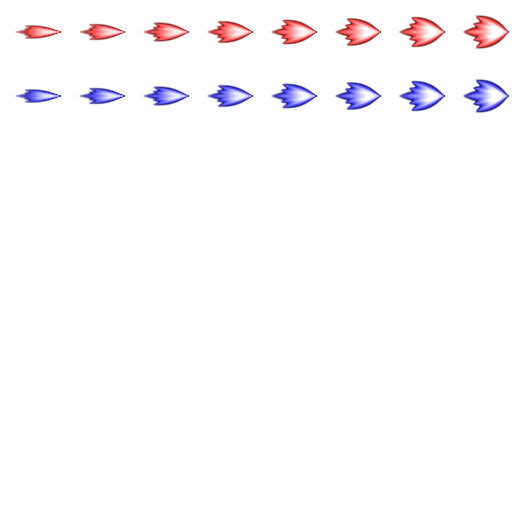
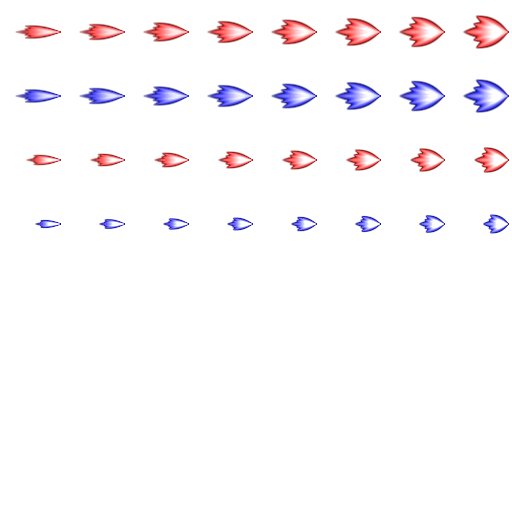
もっと、もっとだ

diff --git a/tools/test.bundle.js b/tools/test.bundle.js
@@ -55601,8 +55601,15 @@ tm.google = tm.google || {};
                 ubright.needsUpdate = true;
             }
 
-            this.activeBullets.forEach(function(bullet) {
+            var uvArray = uv.array;
+            var upositionArray = uposition.array;
+            var urotationArray = urotation.array;
+            var ubrightArray = ubright.array;
+
+            for (var i = 0, len = this.activeBullets.length; i < len; i++) {
+                var bullet = this.activeBullets[i];
                 var index = bullet.index;
+                var index4 = index * 4;
 
                 var u = bullet.frame;
                 var v = bullet.type;
@@ -55611,34 +55618,34 @@ tm.google = tm.google || {};
                 var vmin = v * 1 / 8;
                 var vmax = (v + 1) * 1 / 8;
 
-                uv.array[(index * 4 + 0) * 2 + 0] = umin;
-                uv.array[(index * 4 + 0) * 2 + 1] = 1 - vmin;
-                uv.array[(index * 4 + 1) * 2 + 0] = umax;
-                uv.array[(index * 4 + 1) * 2 + 1] = 1 - vmin;
-                uv.array[(index * 4 + 2) * 2 + 0] = umax;
-                uv.array[(index * 4 + 2) * 2 + 1] = 1 - vmax;
-                uv.array[(index * 4 + 3) * 2 + 0] = umin;
-                uv.array[(index * 4 + 3) * 2 + 1] = 1 - vmax;
+                uvArray[(index4 + 0) * 2 + 0] = umin;
+                uvArray[(index4 + 0) * 2 + 1] = 1 - vmin;
+                uvArray[(index4 + 1) * 2 + 0] = umax;
+                uvArray[(index4 + 1) * 2 + 1] = 1 - vmin;
+                uvArray[(index4 + 2) * 2 + 0] = umax;
+                uvArray[(index4 + 2) * 2 + 1] = 1 - vmax;
+                uvArray[(index4 + 3) * 2 + 0] = umin;
+                uvArray[(index4 + 3) * 2 + 1] = 1 - vmax;
 
-                uposition.array[(index * 4 + 0) * 3 + 0] =
-                    uposition.array[(index * 4 + 1) * 3 + 0] =
-                    uposition.array[(index * 4 + 2) * 3 + 0] =
-                    uposition.array[(index * 4 + 3) * 3 + 0] = bullet.x;
-                uposition.array[(index * 4 + 0) * 3 + 1] =
-                    uposition.array[(index * 4 + 1) * 3 + 1] =
-                    uposition.array[(index * 4 + 2) * 3 + 1] =
-                    uposition.array[(index * 4 + 3) * 3 + 1] = bullet.y;
+                upositionArray[(index4 + 0) * 3 + 0] =
+                    upositionArray[(index4 + 1) * 3 + 0] =
+                    upositionArray[(index4 + 2) * 3 + 0] =
+                    upositionArray[(index4 + 3) * 3 + 0] = bullet.x;
+                upositionArray[(index4 + 0) * 3 + 1] =
+                    upositionArray[(index4 + 1) * 3 + 1] =
+                    upositionArray[(index4 + 2) * 3 + 1] =
+                    upositionArray[(index4 + 3) * 3 + 1] = bullet.y;
 
-                urotation.array[index * 4 + 0] =
-                    urotation.array[index * 4 + 1] =
-                    urotation.array[index * 4 + 2] =
-                    urotation.array[index * 4 + 3] = bullet.rotation;
+                urotationArray[index4 + 0] =
+                    urotationArray[index4 + 1] =
+                    urotationArray[index4 + 2] =
+                    urotationArray[index4 + 3] = bullet.rotation;
 
-                ubright.array[index * 4 + 0] =
-                    ubright.array[index * 4 + 1] =
-                    ubright.array[index * 4 + 2] =
-                    ubright.array[index * 4 + 3] = bullet.bright;
-            });
+                ubrightArray[index4 + 0] =
+                    ubrightArray[index4 + 1] =
+                    ubrightArray[index4 + 2] =
+                    ubrightArray[index4 + 3] = bullet.bright;
+            };
         },
 
         get: function() {
@@ -55695,17 +55702,10 @@ tm.google = tm.google || {};
                     indices.push([i * 4 + 0, i * 4 + 1, i * 4 + 2]);
                     indices.push([i * 4 + 0, i * 4 + 2, i * 4 + 3]);
 
-                    var u = 3;
-                    var v = 0;
-                    var umin = u * 1 / 8;
-                    var umax = (u + 1) * 1 / 8;
-                    var vmin = v * 1 / 8;
-                    var vmax = (v + 1) * 1 / 8;
-
-                    uvs.push([umin, 1 - vmin]);
-                    uvs.push([umax, 1 - vmin]);
-                    uvs.push([umax, 1 - vmax]);
-                    uvs.push([umin, 1 - vmax]);
+                    uvs.push([0, 0]);
+                    uvs.push([1, 0]);
+                    uvs.push([1, 1]);
+                    uvs.push([0, 1]);
 
                     upos.push([0, 0, 0]);
                     upos.push([0, 0, 0]);
@@ -55796,7 +55796,7 @@ tm.google = tm.google || {};
 
         "void main() {",
 
-        "    float idx = floor(position.y / 1.1) * 80.0 + floor(position.x / 1.1);",
+        "    float idx = floor(position.y / 1.1) * " + countSq + ".0 + floor(position.x / 1.1);",
         "    vec3 leftBottom = vec3(floor(position.x / 1.1) * 1.1, floor(position.y / 1.1) * 1.1, 0.0);",
         "    vec3 mid = leftBottom + vec3(0.5, 0.5, 0.0);",
         "    vec3 pos = position - mid;",
@@ -56652,22 +56652,22 @@ tm.define("MainScene", {
         this.superInit();
         
         this.bullets = Bullets().addChildTo(this);
-        this.camera.z += 15;
+        this.camera.z += 7;
     },
 
     update: function(app) {
-        (1).times(function() {
-            var v = tm.geom.Vector2().setRandom().mul(0.1);
+        (512).times(function() {
+            var v = tm.geom.Vector2().setRandom().mul(Math.randf(0.05, 0.09));
             var b = this.bullets.get();
             if (b) {
                 b.type = Math.rand(0, 3);
                 b.frame = 0;
                 b.rotation = v.toAngle();
-                b.on("enterframe", function() {
-                    this.frame = (this.frame + 1) % 8;
+                b.on("enterframe", function(e) {
+                    this.frame = 1 + ~~(e.app.frame / 4) % 3;
                     this.x += v.x;
                     this.y += v.y;
-                    if (this.x < -10 || 10 < this.x || this.y < -10 || 10 < this.y) {
+                    if (this.x * this.x + this.y * this.y > 20*20) {
                         this.remove();
                         this.dispose();
                     }

diff --git a/scripts/elements/bullets.js b/scripts/elements/bullets.js
@@ -37,8 +37,15 @@
                 ubright.needsUpdate = true;
             }
 
-            this.activeBullets.forEach(function(bullet) {
+            var uvArray = uv.array;
+            var upositionArray = uposition.array;
+            var urotationArray = urotation.array;
+            var ubrightArray = ubright.array;
+
+            for (var i = 0, len = this.activeBullets.length; i < len; i++) {
+                var bullet = this.activeBullets[i];
                 var index = bullet.index;
+                var index4 = index * 4;
 
                 var u = bullet.frame;
                 var v = bullet.type;
@@ -47,34 +54,34 @@
                 var vmin = v * 1 / 8;
                 var vmax = (v + 1) * 1 / 8;
 
-                uv.array[(index * 4 + 0) * 2 + 0] = umin;
-                uv.array[(index * 4 + 0) * 2 + 1] = 1 - vmin;
-                uv.array[(index * 4 + 1) * 2 + 0] = umax;
-                uv.array[(index * 4 + 1) * 2 + 1] = 1 - vmin;
-                uv.array[(index * 4 + 2) * 2 + 0] = umax;
-                uv.array[(index * 4 + 2) * 2 + 1] = 1 - vmax;
-                uv.array[(index * 4 + 3) * 2 + 0] = umin;
-                uv.array[(index * 4 + 3) * 2 + 1] = 1 - vmax;
+                uvArray[(index4 + 0) * 2 + 0] = umin;
+                uvArray[(index4 + 0) * 2 + 1] = 1 - vmin;
+                uvArray[(index4 + 1) * 2 + 0] = umax;
+                uvArray[(index4 + 1) * 2 + 1] = 1 - vmin;
+                uvArray[(index4 + 2) * 2 + 0] = umax;
+                uvArray[(index4 + 2) * 2 + 1] = 1 - vmax;
+                uvArray[(index4 + 3) * 2 + 0] = umin;
+                uvArray[(index4 + 3) * 2 + 1] = 1 - vmax;
 
-                uposition.array[(index * 4 + 0) * 3 + 0] =
-                    uposition.array[(index * 4 + 1) * 3 + 0] =
-                    uposition.array[(index * 4 + 2) * 3 + 0] =
-                    uposition.array[(index * 4 + 3) * 3 + 0] = bullet.x;
-                uposition.array[(index * 4 + 0) * 3 + 1] =
-                    uposition.array[(index * 4 + 1) * 3 + 1] =
-                    uposition.array[(index * 4 + 2) * 3 + 1] =
-                    uposition.array[(index * 4 + 3) * 3 + 1] = bullet.y;
+                upositionArray[(index4 + 0) * 3 + 0] =
+                    upositionArray[(index4 + 1) * 3 + 0] =
+                    upositionArray[(index4 + 2) * 3 + 0] =
+                    upositionArray[(index4 + 3) * 3 + 0] = bullet.x;
+                upositionArray[(index4 + 0) * 3 + 1] =
+                    upositionArray[(index4 + 1) * 3 + 1] =
+                    upositionArray[(index4 + 2) * 3 + 1] =
+                    upositionArray[(index4 + 3) * 3 + 1] = bullet.y;
 
-                urotation.array[index * 4 + 0] =
-                    urotation.array[index * 4 + 1] =
-                    urotation.array[index * 4 + 2] =
-                    urotation.array[index * 4 + 3] = bullet.rotation;
+                urotationArray[index4 + 0] =
+                    urotationArray[index4 + 1] =
+                    urotationArray[index4 + 2] =
+                    urotationArray[index4 + 3] = bullet.rotation;
 
-                ubright.array[index * 4 + 0] =
-                    ubright.array[index * 4 + 1] =
-                    ubright.array[index * 4 + 2] =
-                    ubright.array[index * 4 + 3] = bullet.bright;
-            });
+                ubrightArray[index4 + 0] =
+                    ubrightArray[index4 + 1] =
+                    ubrightArray[index4 + 2] =
+                    ubrightArray[index4 + 3] = bullet.bright;
+            };
         },
 
         get: function() {
@@ -131,17 +138,10 @@
                     indices.push([i * 4 + 0, i * 4 + 1, i * 4 + 2]);
                     indices.push([i * 4 + 0, i * 4 + 2, i * 4 + 3]);
 
-                    var u = 3;
-                    var v = 0;
-                    var umin = u * 1 / 8;
-                    var umax = (u + 1) * 1 / 8;
-                    var vmin = v * 1 / 8;
-                    var vmax = (v + 1) * 1 / 8;
-
-                    uvs.push([umin, 1 - vmin]);
-                    uvs.push([umax, 1 - vmin]);
-                    uvs.push([umax, 1 - vmax]);
-                    uvs.push([umin, 1 - vmax]);
+                    uvs.push([0, 0]);
+                    uvs.push([1, 0]);
+                    uvs.push([1, 1]);
+                    uvs.push([0, 1]);
 
                     upos.push([0, 0, 0]);
                     upos.push([0, 0, 0]);
@@ -232,7 +232,7 @@
 
         "void main() {",
 
-        "    float idx = floor(position.y / 1.1) * 80.0 + floor(position.x / 1.1);",
+        "    float idx = floor(position.y / 1.1) * " + countSq + ".0 + floor(position.x / 1.1);",
         "    vec3 leftBottom = vec3(floor(position.x / 1.1) * 1.1, floor(position.y / 1.1) * 1.1, 0.0);",
         "    vec3 mid = leftBottom + vec3(0.5, 0.5, 0.0);",
         "    vec3 pos = position - mid;",

diff --git a/images/raw/bullets.html b/images/raw/bullets.html
@@ -107,11 +107,11 @@
         canvas.globalCompositeOperation = "lighter";
 
         [
-            { angle: 180 - 6 * (frame+4) * 0.4, vel: 1.2 * 0.5, r: 1.0 * (frame+6) * 0.2 * 0.5, },
-            { angle: 180 - 3 * (frame+4) * 0.4, vel: 1.2 * 0.5, r: 1.0 * (frame+6) * 0.2 * 0.5, },
-            { angle: 180 + 0 * (frame+4) * 0.4, vel: 1.5 * 0.5, r: 1.2 * (frame+6) * 0.2 * 0.5, },
-            { angle: 180 + 3 * (frame+4) * 0.4, vel: 1.2 * 0.5, r: 1.0 * (frame+6) * 0.2 * 0.5, },
-            { angle: 180 + 6 * (frame+4) * 0.4, vel: 1.2 * 0.5, r: 1.0 * (frame+6) * 0.2 * 0.5, },
+            { angle: 180 - 6 * (frame+4) * 0.4, vel: 1.2 * 0.75, r: 1.0 * (frame+6) * 0.2 * 0.75, },
+            { angle: 180 - 3 * (frame+4) * 0.4, vel: 1.2 * 0.75, r: 1.0 * (frame+6) * 0.2 * 0.75, },
+            { angle: 180 + 0 * (frame+4) * 0.4, vel: 1.5 * 0.75, r: 1.2 * (frame+6) * 0.2 * 0.75, },
+            { angle: 180 + 3 * (frame+4) * 0.4, vel: 1.2 * 0.75, r: 1.0 * (frame+6) * 0.2 * 0.75, },
+            { angle: 180 + 6 * (frame+4) * 0.4, vel: 1.2 * 0.75, r: 1.0 * (frame+6) * 0.2 * 0.75, },
         ].map(function(data) {
             var pos = tm.geom.Vector2(60, 32);
             var v = tm.geom.Vector2().setAngle(data.angle, data.vel);
@@ -140,11 +140,11 @@
         canvas.globalCompositeOperation = "lighter";
 
         [
-            { angle: 180 - 6 * (frame+4) * 0.4, vel: 1.2 * 0.5, r: 1.0 * (frame+6) * 0.2 * 0.5, },
-            { angle: 180 - 3 * (frame+4) * 0.4, vel: 1.2 * 0.5, r: 1.0 * (frame+6) * 0.2 * 0.5, },
-            { angle: 180 + 0 * (frame+4) * 0.4, vel: 1.5 * 0.5, r: 1.2 * (frame+6) * 0.2 * 0.5, },
-            { angle: 180 + 3 * (frame+4) * 0.4, vel: 1.2 * 0.5, r: 1.0 * (frame+6) * 0.2 * 0.5, },
-            { angle: 180 + 6 * (frame+4) * 0.4, vel: 1.2 * 0.5, r: 1.0 * (frame+6) * 0.2 * 0.5, },
+            { angle: 180 - 6 * (frame+4) * 0.4, vel: 1.2 * 0.55, r: 1.0 * (frame+6) * 0.2 * 0.55, },
+            { angle: 180 - 3 * (frame+4) * 0.4, vel: 1.2 * 0.55, r: 1.0 * (frame+6) * 0.2 * 0.55, },
+            { angle: 180 + 0 * (frame+4) * 0.4, vel: 1.5 * 0.55, r: 1.2 * (frame+6) * 0.2 * 0.55, },
+            { angle: 180 + 3 * (frame+4) * 0.4, vel: 1.2 * 0.55, r: 1.0 * (frame+6) * 0.2 * 0.55, },
+            { angle: 180 + 6 * (frame+4) * 0.4, vel: 1.2 * 0.55, r: 1.0 * (frame+6) * 0.2 * 0.55, },
         ].map(function(data) {
             var pos = tm.geom.Vector2(60, 32);
             var v = tm.geom.Vector2().setAngle(data.angle, data.vel);

diff --git a/tools/test.js b/tools/test.js
@@ -31,22 +31,22 @@ tm.define("MainScene", {
         this.superInit();
         
         this.bullets = Bullets().addChildTo(this);
-        this.camera.z += 15;
+        this.camera.z += 7;
     },
 
     update: function(app) {
-        (1).times(function() {
-            var v = tm.geom.Vector2().setRandom().mul(0.1);
+        (512).times(function() {
+            var v = tm.geom.Vector2().setRandom().mul(Math.randf(0.05, 0.09));
             var b = this.bullets.get();
             if (b) {
                 b.type = Math.rand(0, 3);
                 b.frame = 0;
                 b.rotation = v.toAngle();
-                b.on("enterframe", function() {
-                    this.frame = (this.frame + 1) % 8;
+                b.on("enterframe", function(e) {
+                    this.frame = 1 + ~~(e.app.frame / 4) % 3;
                     this.x += v.x;
                     this.y += v.y;
-                    if (this.x < -10 || 10 < this.x || this.y < -10 || 10 < this.y) {
+                    if (this.x * this.x + this.y * this.y > 20*20) {
                         this.remove();
                         this.dispose();
                     }
